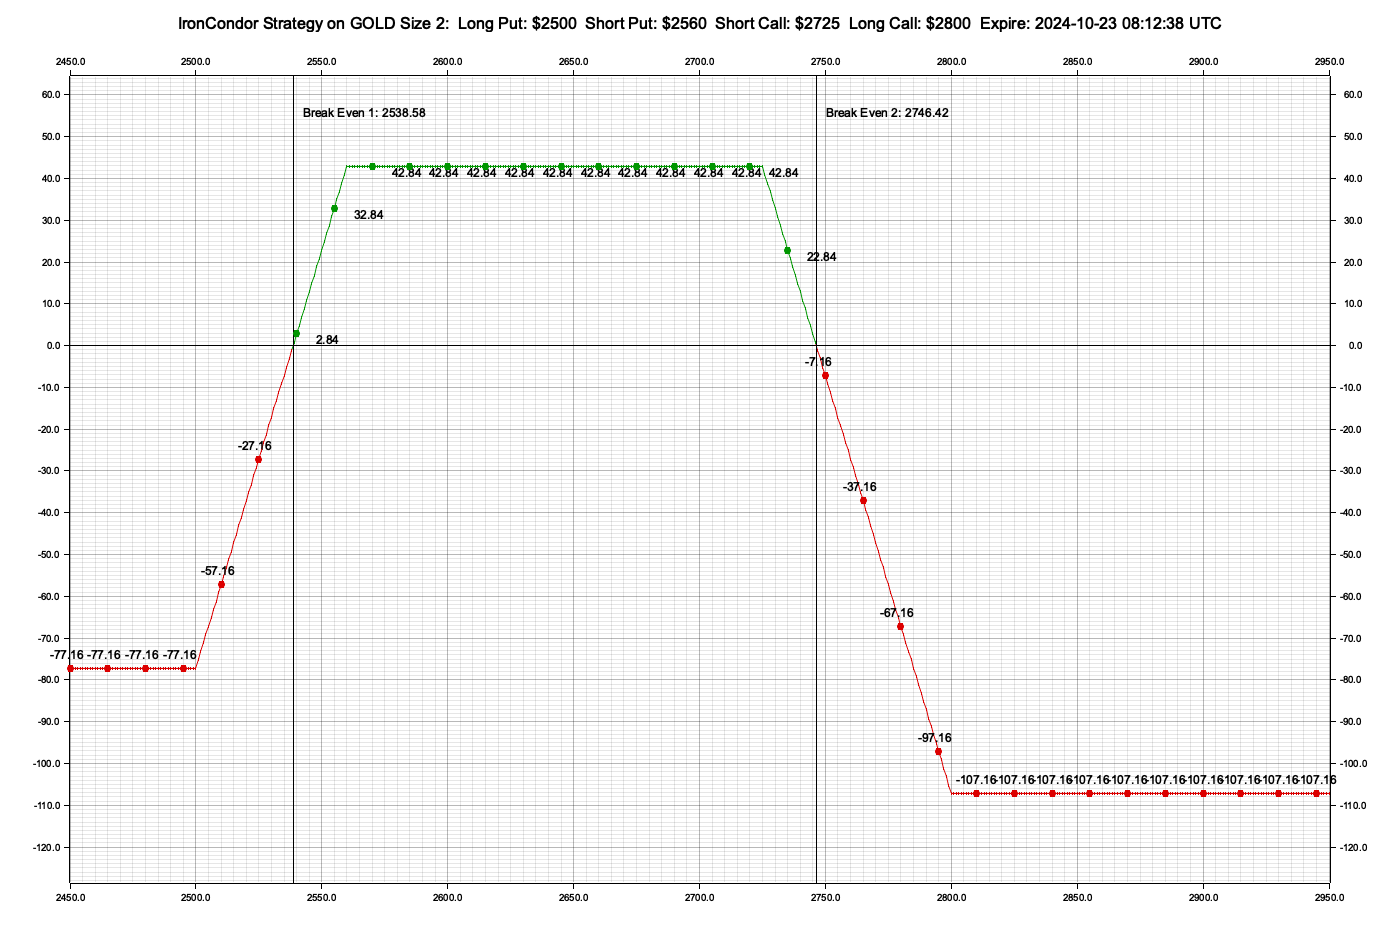
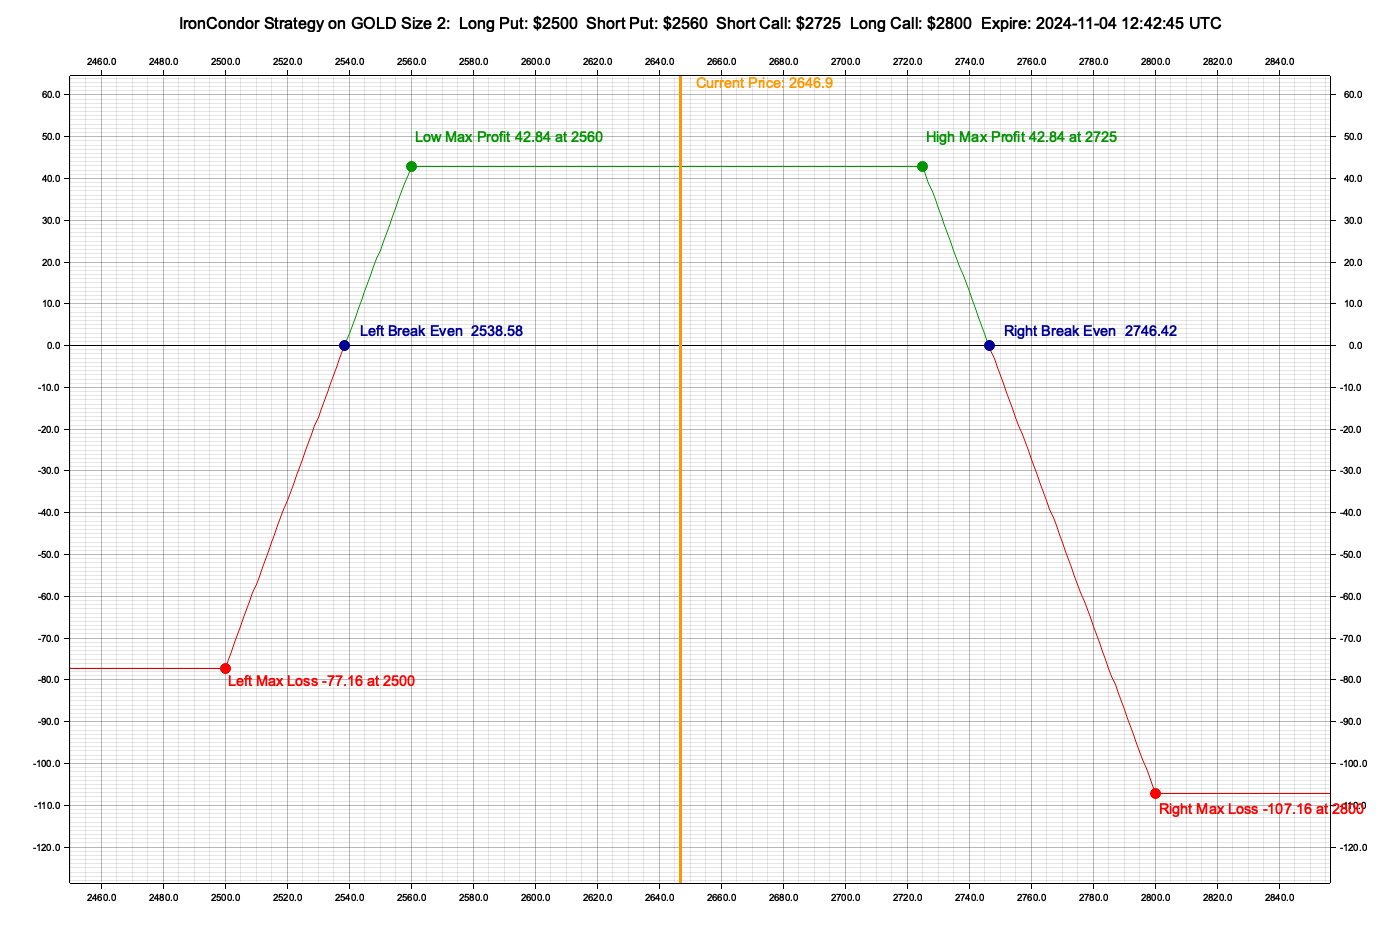
Refactor and enhance Iron Condor strategy visualizations
Refactor the example to use the best range calculation method. Introduce new visualization points and vertical lines for better clarity, and include additional dependencies for improved graph styling.

diff --git a/src/strategies/iron_condor.rs b/src/strategies/iron_condor.rs
@@ -14,10 +14,13 @@ use crate::model::option::Options;
 use crate::model::position::Position;
 use crate::model::types::{ExpirationDate, OptionStyle, OptionType, PositiveF64, Side};
 use crate::pricing::payoff::Profit;
-use crate::visualization::model::ChartVerticalLine;
+use crate::visualization::model::{ChartPoint, ChartVerticalLine};
 use crate::visualization::utils::Graph;
 use chrono::Utc;
-use plotters::prelude::{ShapeStyle, BLACK};
+use plotters::prelude::{ShapeStyle, RED};
+use plotters::prelude::full_palette::ORANGE;
+use crate::constants::{DARK_BLUE, DARK_GREEN, STRIKE_PRICE_LOWER_BOUND_MULTIPLIER, STRIKE_PRICE_UPPER_BOUND_MULTIPLIER};
+use crate::strategies::utils::calculate_price_range;
 
 const IRON_CONDOR_DESCRIPTION: &str =
     "An Iron Condor is a neutral options strategy combining a bull put spread with a bear call spread. \
@@ -191,6 +194,15 @@ impl Strategies for IronCondor {
         }
     }
 
+    fn get_legs(&self) -> Vec<Position> {
+        vec![
+            self.short_call.clone(),
+            self.short_put.clone(),
+            self.long_call.clone(),
+            self.long_put.clone(),
+        ]
+    }
+
     fn break_even(&self) -> Vec<PositiveF64> {
         // Iron Condor has two break-even points, we'll return the lower one
         self.break_even_points.clone()
@@ -249,6 +261,16 @@ impl Strategies for IronCondor {
 
         (inner_area + outer_triangles) / self.short_call.option.underlying_price.value()
     }
+
+    fn best_range_to_show(&self, step: PositiveF64) -> Option<Vec<PositiveF64>> {
+        let (first_option, last_option) = (
+            self.long_put.option.clone(),
+            self.long_call.option.clone(),
+        );
+        let start_price = first_option.strike_price * STRIKE_PRICE_LOWER_BOUND_MULTIPLIER;
+        let end_price = last_option.strike_price * STRIKE_PRICE_UPPER_BOUND_MULTIPLIER;
+        Some(calculate_price_range(start_price, end_price, step))
+    }
 }
 
 impl Profit for IronCondor {
@@ -274,9 +296,9 @@ impl Graph for IronCondor {
             format!("Long Call: ${}", self.long_call.option.strike_price),
             format!("Expire: {}", self.short_put.option.expiration_date),
         ]
-        .iter()
-        .map(|leg| leg.to_string())
-        .collect();
+            .iter()
+            .map(|leg| leg.to_string())
+            .collect();
 
         if leg_titles.is_empty() {
             strategy_title
@@ -286,20 +308,124 @@ impl Graph for IronCondor {
     }
 
     fn get_vertical_lines(&self) -> Vec<ChartVerticalLine<f64, f64>> {
-        let mut vertical_lines: Vec<ChartVerticalLine<f64, f64>> = vec![];
-        for break_even_point in self.break_even_points.clone() {
-            vertical_lines.push(ChartVerticalLine {
-                x_coordinate: break_even_point.value(),
-                y_range: (-50000.0, 50000.0),
-                label: "Break Even".to_string(),
-                label_offset: (5.0, 5.0),
-                line_color: BLACK,
-                label_color: BLACK,
-                line_style: ShapeStyle::from(&BLACK).stroke_width(1),
-                font_size: 18,
-            });
-        }
+        let vertical_lines = vec![ChartVerticalLine {
+            x_coordinate: self.short_call.option.underlying_price.value(),
+            y_range: (-50000.0, 50000.0),
+            label: format!("Current Price: {}", self.short_call.option.underlying_price),
+            label_offset: (5.0, 5.0),
+            line_color: ORANGE,
+            label_color: ORANGE,
+            line_style: ShapeStyle::from(&ORANGE).stroke_width(2),
+            font_size: 18,
+        }];
+
         vertical_lines
+    }
+
+    fn get_points(&self) -> Vec<ChartPoint<(f64, f64)>> {
+        let mut points: Vec<ChartPoint<(f64, f64)>> = Vec::new();
+
+        points.push(ChartPoint {
+            coordinates: (self.break_even_points[0].value(), 0.0),
+            label: format!("Left Break Even\n\n{}", self.break_even_points[0]),
+            label_offset: (5.0, 5.0),
+            point_color: DARK_BLUE,
+            label_color: DARK_BLUE,
+            point_size: 5,
+            font_size: 18,
+        });
+
+        points.push(ChartPoint {
+            coordinates: (self.break_even_points[1].value(), 0.0),
+            label: format!("Right Break Even\n\n{}", self.break_even_points[1]),
+            label_offset: (5.0, 5.0),
+            point_color: DARK_BLUE,
+            label_color: DARK_BLUE,
+            point_size: 5,
+            font_size: 18,
+        });
+
+        let coordiantes: (f64, f64) = (
+            self.short_call.option.strike_price.value() / 2000.0,
+            self.max_profit() / 5.0,
+        );
+        points.push(ChartPoint {
+            coordinates: (
+                self.short_call.option.strike_price.value(),
+                self.max_profit(),
+            ),
+            label: format!(
+                "High Max Profit {:.2} at {:.0}",
+                self.max_profit(),
+                self.short_call.option.strike_price
+            ),
+            label_offset: coordiantes,
+            point_color: DARK_GREEN,
+            label_color: DARK_GREEN,
+            point_size: 5,
+            font_size: 18,
+        });
+
+        let coordiantes: (f64, f64) = (
+            self.short_put.option.strike_price.value() / 2000.0,
+            self.max_profit() / 5.0,
+        );
+        points.push(ChartPoint {
+            coordinates: (
+                self.short_put.option.strike_price.value(),
+                self.max_profit(),
+            ),
+            label: format!(
+                "Low Max Profit {:.2} at {:.0}",
+                self.max_profit(),
+                self.short_put.option.strike_price
+            ),
+            label_offset: coordiantes,
+            point_color: DARK_GREEN,
+            label_color: DARK_GREEN,
+            point_size: 5,
+            font_size: 18,
+        });
+
+        let loss = self.calculate_profit_at(self.long_call.option.strike_price);
+        let coordiantes: (f64, f64) = (
+            self.long_call.option.strike_price.value() / 2000.0,
+            loss / 50.0,
+        );
+        points.push(ChartPoint {
+            coordinates: (self.long_call.option.strike_price.value(), loss),
+            label: format!(
+                "Right Max Loss {:.2} at {:.0}",
+                loss,
+                self.long_call.option.strike_price
+            ),
+            label_offset: coordiantes,
+            point_color: RED,
+            label_color: RED,
+            point_size: 5,
+            font_size: 18,
+        });
+
+        let loss = self.calculate_profit_at(self.long_put.option.strike_price);
+        let coordiantes: (f64, f64) = (
+            self.long_put.option.strike_price.value() / 2000.0,
+            loss / 50.0,
+        );
+        points.push(ChartPoint {
+            coordinates: (self.long_put.option.strike_price.value(), loss),
+            label: format!(
+                "Left Max Loss {:.2} at {:.0}",
+                loss,
+                self.long_put.option.strike_price
+            ),
+            label_offset: coordiantes,
+            point_color: RED,
+            label_color: RED,
+            point_size: 5,
+            font_size: 18,
+        });
+
+        points
     }
 }
 

diff --git a/examples/strategy_iron_condor.rs b/examples/strategy_iron_condor.rs
@@ -33,10 +33,7 @@ fn main() -> Result<(), Box<dyn Error>> {
         0.96,      // close_fee
     );
 
-    let price_range: Vec<PositiveF64> = (2450..=2950)
-        .map(|x| PositiveF64::new(x as f64).unwrap())
-        .collect();
-
+    let price_range = strategy.best_range_to_show(pos!(1.0)).unwrap();
     let range = strategy.break_even_points[1] - strategy.break_even_points[0];
 
     info!("Title: {}", strategy.title());
